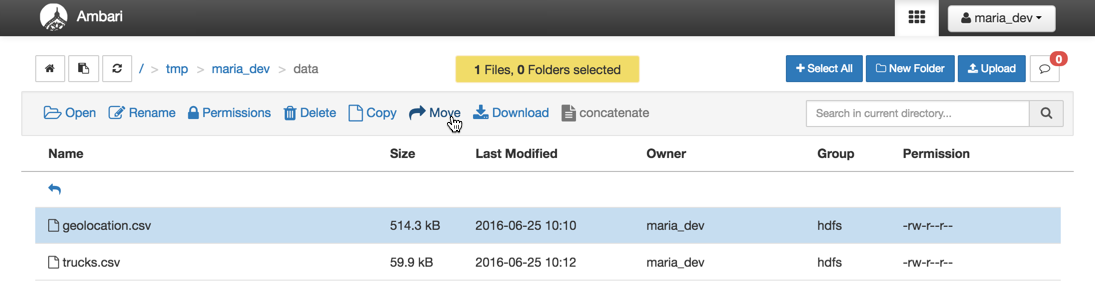
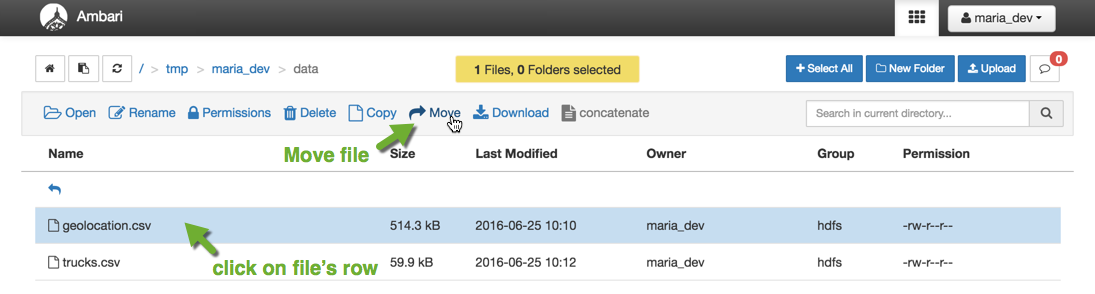
update lab2
- added new pictures

- added new instructions for moving files or folders to new
destinations with the updated Files View UI

Changed region(s): [[0.1553, 0.7653, 0.3416, 0.949], [0.2484, 0.398, 0.4037, 0.551]]

diff --git a/tutorials/hortonworks/hello-hdp-an-introduction-to-hadoop/hello-hdp-section-4.md b/tutorials/hortonworks/hello-hdp-an-introduction-to-hadoop/hello-hdp-section-4.md
@@ -196,7 +196,7 @@ Click on the **Load sample data** icon to generate and execute a select SQL stat
 
 ### 2.3.1 Manual Approach: Populate Hive Table with Data
 
-Let’s load some data into your two Hive tables. Populating a Hive table can be done in various ways. A simple way to populate a table is to put a file into the directory associated with the table. Using the Ambari Files User View, click on the **Move** icon next to the file `/tmp/maria_dev/data/geolocation.csv`. (Clicking on **Move** is similar to “cut” in cut-and-paste.)
+Let’s load some data into your two Hive tables. Populating a Hive table can be done in various ways. A simple way to populate a table is to put a file into the directory associated with the table. Using the Ambari Files View, click on the file's row, then click on the **Move** icon above the file `/tmp/maria_dev/data/geolocation.csv`. (Clicking on **Move** is similar to “cut” in cut-and-paste.)
 
 
 ![Screen Shot 2015-07-27 at 9.45.11 PM](/assets/hello-hdp/move_icon_files_view_lab2.png)
@@ -210,15 +210,15 @@ Let’s load some data into your two Hive tables. Populating a Hive table can be
 
 #### 2.3.1.2 Notice two things have changed:
 
-1.  The file name geolocation.csv is grayed out.
-2.  The icons associated with the operations on the files are removed. This is to indicate that this file is in a special state that is ready to be moved.
+1.  A **Move to** window appears.
+2.  The icons associated with the operations on the files are not accessible while the window is present. This is state indicates that this file is in a special state that is ready to be moved.
 
-#### 2.3.1.3 Navigate to Destination Path and Paste File
+#### 2.3.1.3 Navigate to Destination Path and Move File
 
-Now navigate to the destination path `/apps/hive/warehouse/geolocation_stage`.  You might notice that as you navigate through the directories that the file is pinned at the top.  Once you get to the appropriate directory click on the **Paste** icon to move the file:
+Now navigate to the destination path `/apps/hive/warehouse/geolocation_stage`. Click on the `apps` folder's icon to move into app's folder, repeat this process until you navigated to `geolocation_stage` folder. Click on the folder's name to set the directory path. Hence, press the **Move** button to move the file:
 
 
-![Lab2_11](/assets/hello-hdp/paste_geolocation_to_warehouse_hello_hdp_lab2.png)
+![Lab2_11](/assets/hello-hdp/move_geo_csv_to_geo_stage_lab2.png)
 
 
 #### 2.3.1.4 Load Sample Data of geolocation_stage
